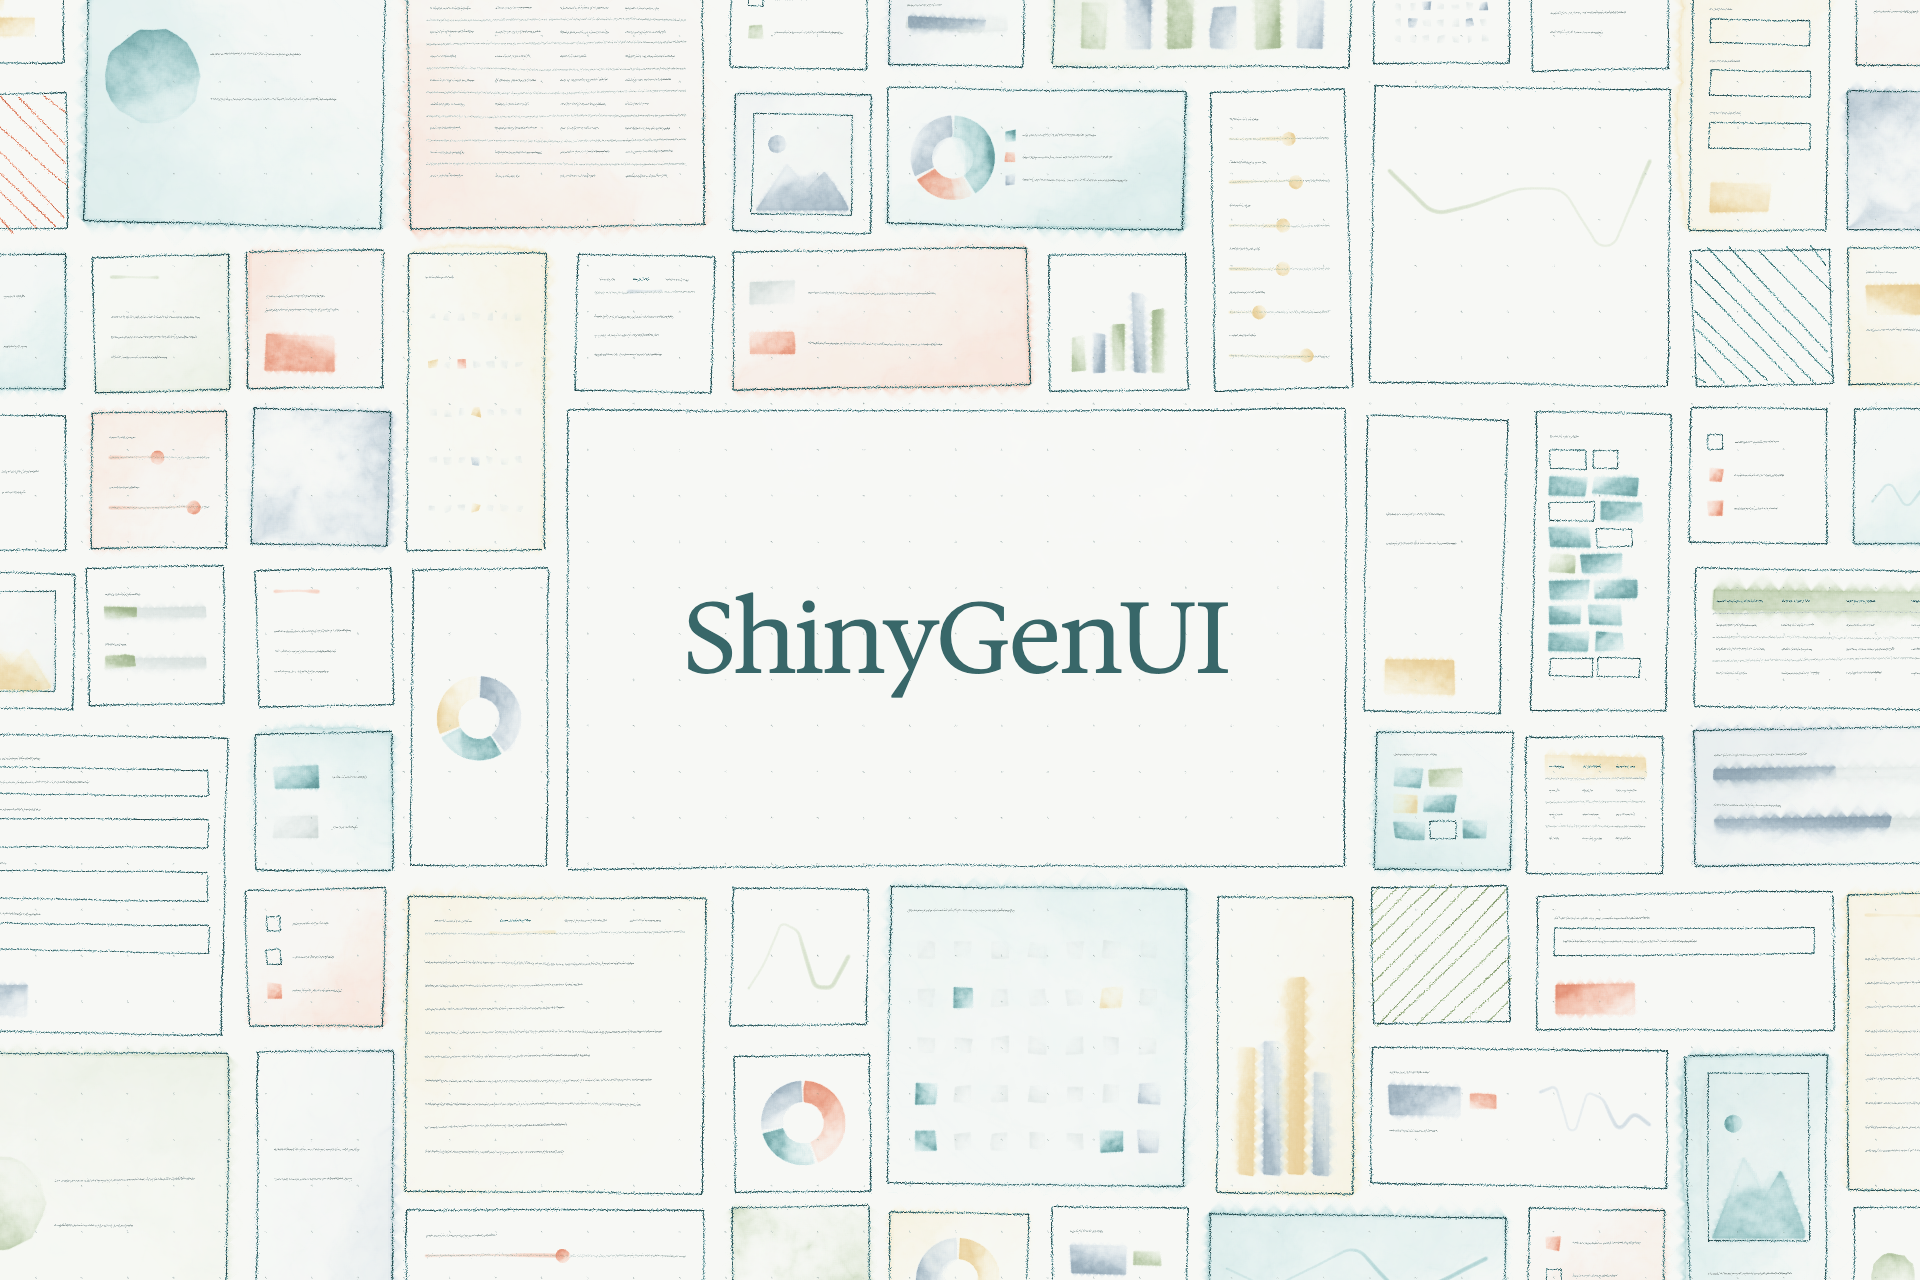
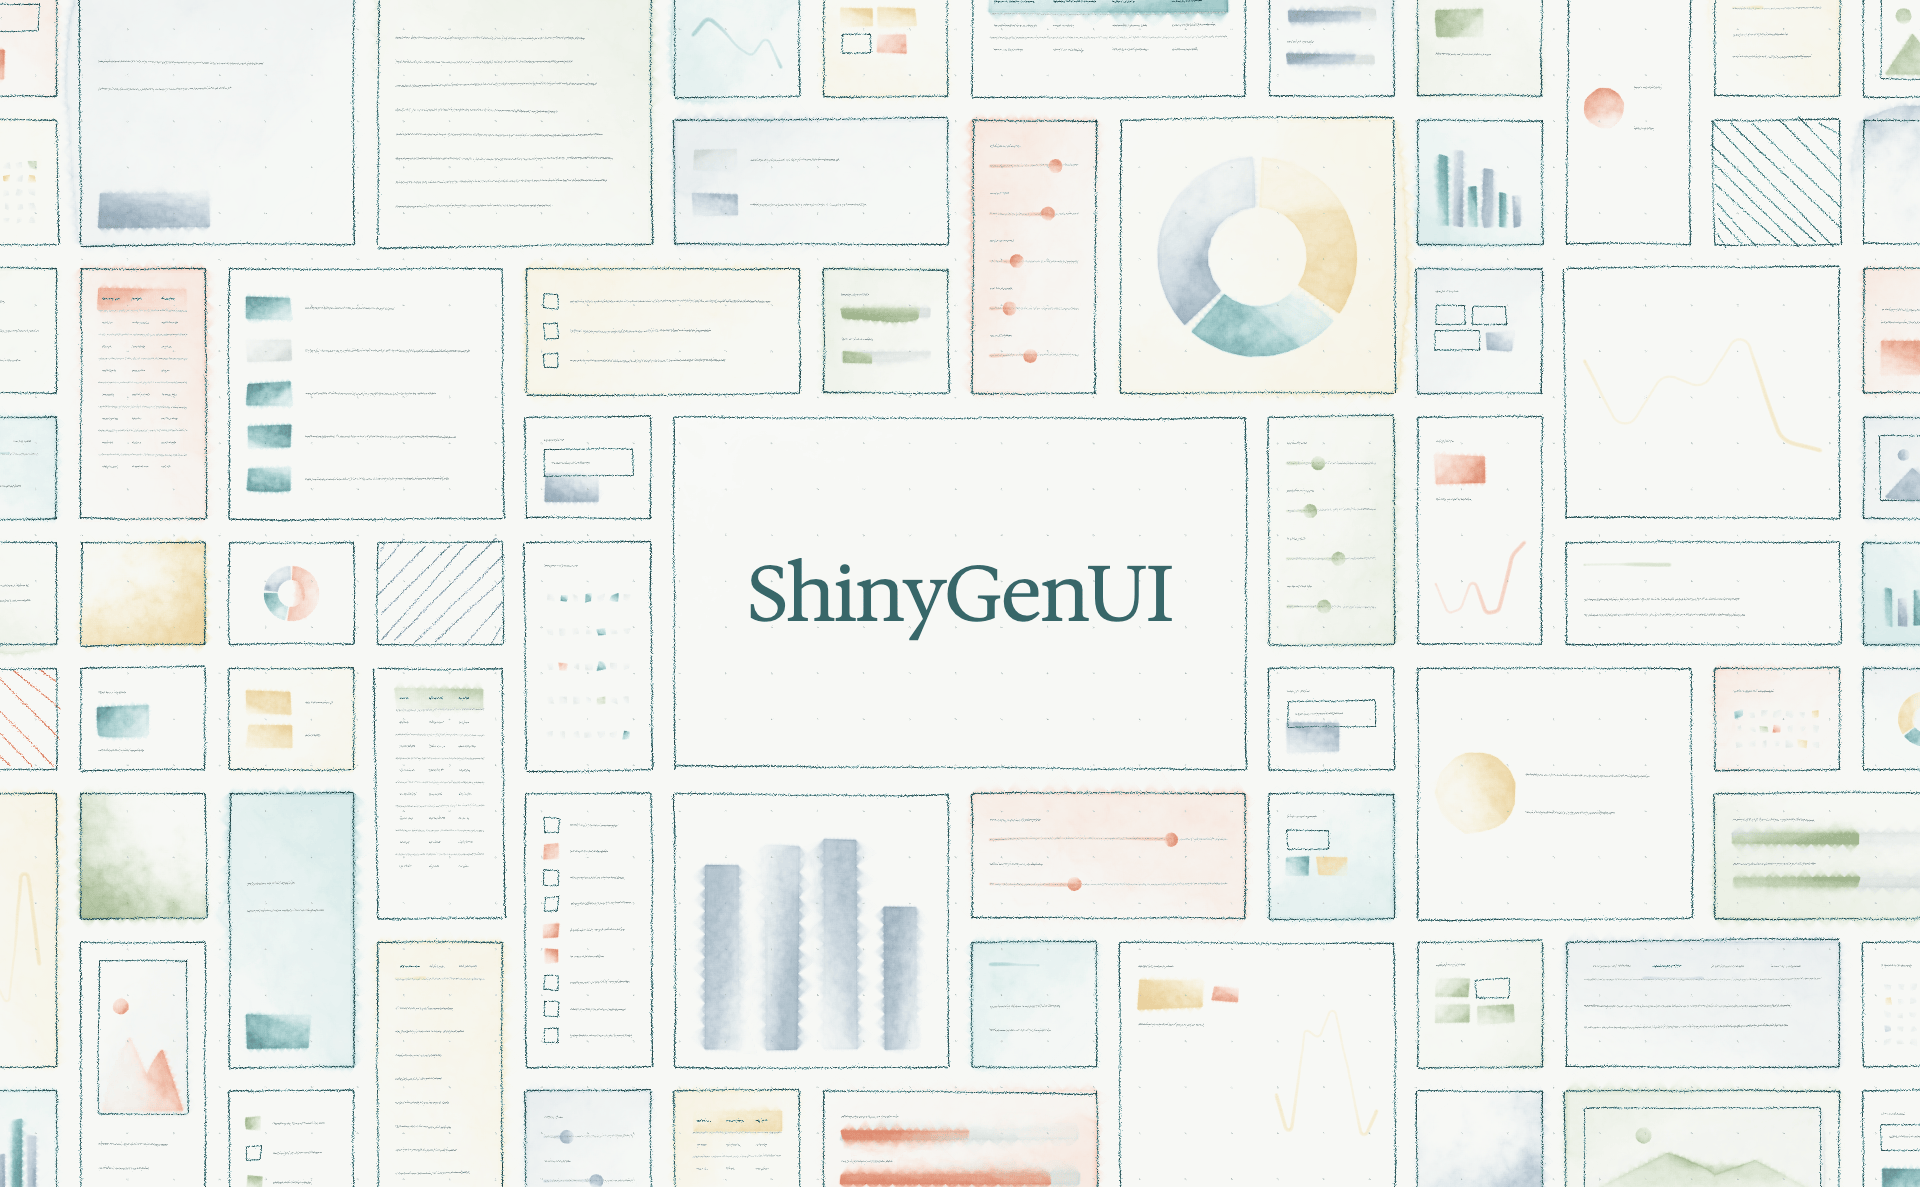
Align hero cards, golden-ratio canvas and wordmark box, compress in render.sh (#4)
* Align hero cards and make the canvas and wordmark box golden

Tilt, offset and corner jitter are set to zero: with this many cards, any
misalignment between neighbours reads as noise rather than charm. A faint
wiggle keeps the pencil grain.

The canvas is now 1920 x 1187, a golden rectangle, and the wordmark panel is
one too: it spans 4 x 3 cells of a 14 x 9 grid, and the three rows it covers
are sized so its width to height ratio is phi. The panel is smaller than
before with tighter margins around the wordmark.

Claude-Session: https://claude.ai/code/session_01KzuQuvsctVhUFzbYePDDFN

* Compress captures with pngquant in render.sh

The render script now quantizes the capture in place when pngquant is
installed, instead of the README asking people to do it by hand. Also
documents the aligned, golden-ratio hero.

Claude-Session: https://claude.ai/code/session_01KzuQuvsctVhUFzbYePDDFN

* Regenerate examples through the compressing render script

Claude-Session: https://claude.ai/code/session_01KzuQuvsctVhUFzbYePDDFN

---------

Changed region(s): [[0.0, 0.0, 1.0, 1.0], [0.3438, 0.4676, 0.6562, 0.5611], [0.5625, 0.7793, 0.5938, 0.8104]]

diff --git a/examples/shinygenui-hero/index.html b/examples/shinygenui-hero/index.html
@@ -44,14 +44,26 @@
 <body>
   <div id="wordmark">ShinyGenUI</div>
   <script>
-    // 1920 x 1280 blog post hero. The bento grid is laid out over an area one
-    // cell larger than the canvas on every side, so cards run off all four
-    // edges and the composition reads as a window onto a larger sheet. The
-    // wordmark sits in a lifted 5 x 3 panel in the centre.
+    // 1920 x 1187 blog post hero, a golden rectangle. The bento grid is laid
+    // out over an area wider and taller than the canvas, so cards run off all
+    // four edges and the composition reads as a window onto a larger sheet.
+    // The wordmark sits in a lifted 4 x 3 panel in the centre that is itself
+    // a golden rectangle: the three rows it spans are sized to make it so.
+    const PHI = (1 + Math.sqrt(5)) / 2;
     const W = 1920;
-    const H = 1280;
-    const CELL = 160;
-    const TITLE = { col: 4, row: 3, spanC: 5, spanR: 3, kind: "panel" };
+    const H = Math.round(W / PHI);
+    const OVER = 80;      // Overflow past the left and right edges.
+    const COLS = 14;
+    const ROWS = 9;
+    const GUTTER = 24;
+    const CELL = (W + 2 * OVER) / COLS;
+    const TITLE = { col: 5, row: 3, spanC: 4, spanR: 3, kind: "panel" };
+
+    // Row heights in canvas units: square cells, except the title rows.
+    const TITLE_ROW = ((TITLE.spanC * CELL - GUTTER) / PHI + GUTTER) / TITLE.spanR;
+    const ROW_HEIGHTS = Array.from({ length: ROWS }, (_, r) =>
+      r >= TITLE.row && r < TITLE.row + TITLE.spanR ? TITLE_ROW : CELL);
+    const LAYOUT_H = ROW_HEIGHTS.reduce((a, b) => a + b, 0);
 
     // Every component once before any repeats. Washes and hatches are accents:
     // they only go on 1 x 1 cards so no large block is left empty.
@@ -71,7 +83,7 @@
       return (overlapR && besideC) || (overlapC && besideR);
     }
 
-    // The least-used value in `pool` that no neighbour already has.
+    // The least-used value in `pool` that no neighbor already has.
     function leastUsed(pool, used, avoid) {
       let candidates = pool.filter((v) => !avoid.has(v));
       if (candidates.length === 0) candidates = pool;
@@ -79,7 +91,7 @@
       return random(candidates.filter((v) => (used.get(v) || 0) === min));
     }
 
-    // Give each card a kind and a color that none of its edge neighbours
+    // Give each card a kind and a color that none of its edge neighbors
     // share, so no two adjacent cards read as the same block.
     function vary(cells, palette) {
       const usedKind = new Map();
@@ -107,22 +119,23 @@
       noiseSeed(1920);
       brush.scaleBrushes(2);
 
-      // One extra cell on each side; half of each edge card is cut off.
-      // Straighter edges than the social preview: at this size a wiggle of
-      // 1.2 makes long card edges wobble, so wiggle, jitter and tilt are all
-      // reduced and the pencil and watercolor texture carry the sketch feel.
+      // Unlike the social preview, cards are not tilted, shifted or
+      // corner-jittered: at this many cards, any misalignment between
+      // neighbors reads as noise rather than charm. A faint wiggle keeps
+      // the pencil grain, and the watercolor texture does the rest.
       const opts = {
-        x: -CELL / 2,
-        y: -CELL / 2,
-        width: W + CELL,
-        height: H + CELL,
-        cols: 13,
-        rows: 9,
-        gutter: 24,
+        x: -OVER,
+        y: -(LAYOUT_H - H) / 2,
+        width: W + 2 * OVER,
+        height: LAYOUT_H,
+        cols: COLS,
+        rows: ROW_HEIGHTS,
+        gutter: GUTTER,
         reserve: [TITLE],
         wiggle: 0.4,
-        jitter: 1.5,
-        tilt: 1.2,
+        jitter: 0,
+        offset: 0,
+        tilt: 0,
       };
 
       skeleton.dots(opts);

diff --git a/README.md b/README.md
@@ -52,17 +52,20 @@ tools/render.sh examples/shinygenui-social-preview/index.html social-preview.png
 ```
 
 [`examples/shinygenui-hero`](examples/shinygenui-hero/index.html) is a
-1920 x 1280 blog post hero built the same way, with a 13 x 9 grid laid out
-over an area one cell larger than the canvas on every side. Cards run off all
-four edges, so the image reads as a window onto a larger sheet rather than a
-framed grid. It also uses lower `wiggle`, `jitter` and `tilt` than the social
-preview: at this size a strong wiggle makes long card edges wobble, and the
-pencil and watercolor texture carry the hand-drawn feel on their own.
+1920 x 1187 blog post hero, a golden rectangle, built the same way with a
+14 x 9 grid laid out over an area wider and taller than the canvas. Cards run
+off all four edges, so the image reads as a window onto a larger sheet rather
+than a framed grid. The wordmark panel is a golden rectangle too: `rows` is
+given as an array of heights, and the three rows the panel spans are sized to
+make it so. Unlike the social preview it sets `tilt`, `offset` and `jitter`
+to zero and uses a faint `wiggle`: with this many cards, any misalignment
+between neighbors reads as noise, and the pencil and watercolor texture carry
+the hand-drawn feel on their own.
 
 ![ShinyGenUI hero](examples/shinygenui-hero/hero.png)
 
 ```sh
-tools/render.sh examples/shinygenui-hero/index.html hero.png 1920 1280
+tools/render.sh examples/shinygenui-hero/index.html hero.png 1920 1187
 ```
 
 ## API
@@ -213,20 +216,16 @@ composed without state leaking between them.
 
 ## Rendering to PNG
 
-`tools/render.sh` screenshots a page with headless Chrome at a given size and
-fails if WebGL did not initialize:
+`tools/render.sh` screenshots a page with headless Chrome at a given size,
+fails if WebGL did not initialize, and compresses the capture in place with
+`pngquant` when it is installed:
 
 ```sh
 tools/render.sh <input.html> <output.png> <width> <height>
 ```
 
-Chrome needs network access for the CDN scripts and, in the social preview
-example, for the Google font. `pngquant` roughly halves the size of a capture
-with no visible change:
-
-```sh
-pngquant --force --output social-preview.png social-preview.png
-```
+Chrome needs network access for the CDN scripts and for the Google font the
+examples use.
 
 ## License
 
